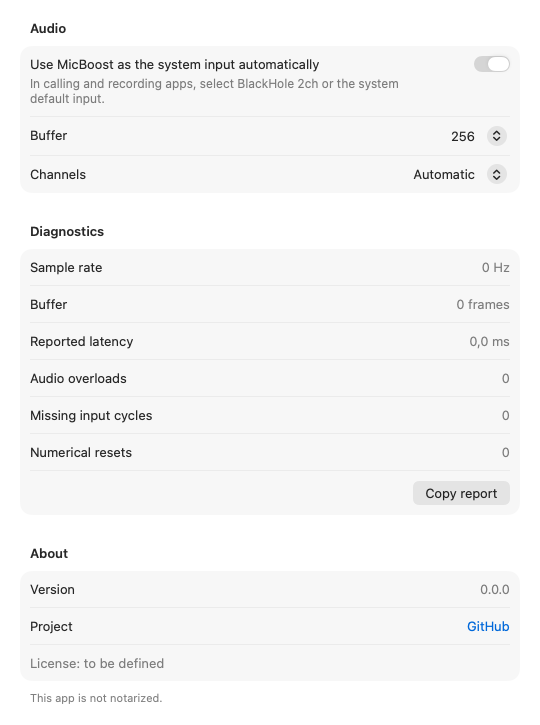
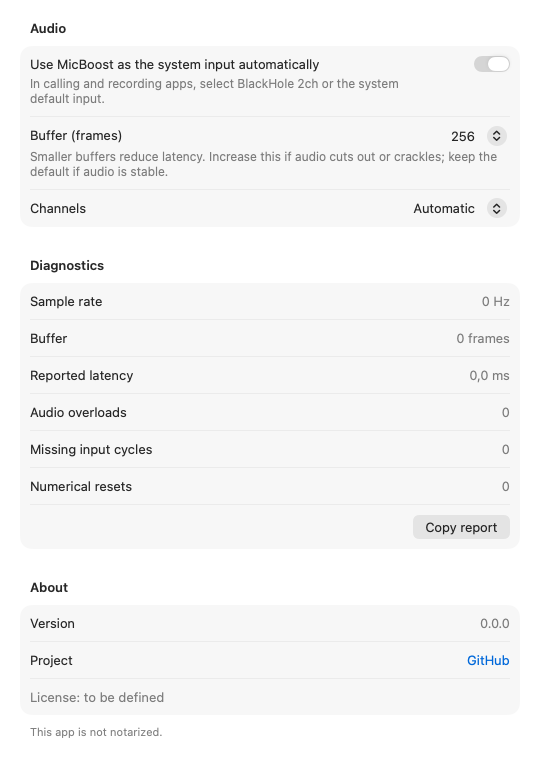
Clarify buffer units and explain latency tradeoffs

diff --git a/Sources/MicBoostUI/Views.swift b/Sources/MicBoostUI/Views.swift
@@ -262,20 +262,30 @@ import SwiftUI
                     let enabled = model.controls.manageDefaultInput
                     Task { await model.engine.setDefaultInputManagement(enabled) }
                 }
-                Picker(localized("Buffer"), selection: $model.controls.bufferFrames) {
-                    ForEach(
-                        Settings.allowedBufferFrames.filter { frames in
-                            guard let source = model.status?.source else { return true }
-                            return Double(frames) >= source.bufferRange.minimum
-                                && Double(frames) <= source.bufferRange.maximum
-                        }, id: \.self
-                    ) { Text("\($0)").tag($0) }
-                }.onChange(of: model.controls.bufferFrames) {
-                    let frames = model.controls.bufferFrames
-                    Task {
-                        await model.store.update { $0.bufferFrames = frames }
-                        model.retry()
+                VStack(alignment: .leading, spacing: 4) {
+                    Picker(localized("Buffer (frames)"), selection: $model.controls.bufferFrames) {
+                        ForEach(
+                            Settings.allowedBufferFrames.filter { frames in
+                                guard let source = model.status?.source else { return true }
+                                return Double(frames) >= source.bufferRange.minimum
+                                    && Double(frames) <= source.bufferRange.maximum
+                            }, id: \.self
+                        ) { Text("\($0)").tag($0) }
+                    }.onChange(of: model.controls.bufferFrames) {
+                        let frames = model.controls.bufferFrames
+                        Task {
+                            await model.store.update { $0.bufferFrames = frames }
+                            model.retry()
+                        }
                     }
+                    Text(
+                        localized(
+                            "Smaller buffers reduce latency. Increase this if audio cuts out or crackles; keep the default if audio is stable."
+                        )
+                    )
+                    .font(.callout)
+                    .foregroundStyle(.secondary)
+                    .fixedSize(horizontal: false, vertical: true)
                 }
                 Picker(localized("Channels"), selection: Binding(get: { channel }, set: setChannel)) {
                     Text(localized("Automatic")).tag(0)

diff --git a/docs/ui.md b/docs/ui.md
@@ -88,7 +88,7 @@ As seções seguem o estilo dos Ajustes do Sistema: cartões agrupados nativos,
 controles com tamanho padrão do sistema, switch nativo à direita com explicação secundária
 junto ao rótulo e linhas de diagnóstico/sobre com rótulo à esquerda e valor à direita.
 
-- **Áudio:** chave "Usar MicBoost como entrada do sistema automaticamente" (`manageDefaultInput`, ligada por padrão), com uma frase explicando que, desligada, cada app precisa selecionar o microfone "BlackHole 2ch" por conta própria; tamanho de buffer (64/128/256/512/1024, só os valores suportados) e modo de canais da fonte atual ([audio-engine.md](audio-engine.md#canais)).
+- **Áudio:** chave "Usar MicBoost como entrada do sistema automaticamente" (`manageDefaultInput`, ligada por padrão), com uma frase explicando que, desligada, cada app precisa selecionar o microfone "BlackHole 2ch" por conta própria; "Buffer (quadros)" (64/128/256/512/1024, só os valores suportados), com descrição abaixo explicando que valores menores reduzem o atraso e valores maiores podem evitar cortes ou estalos; manter o padrão se o áudio estiver estável e modo de canais da fonte atual ([audio-engine.md](audio-engine.md#canais)).
 - **Diagnóstico** (somente leitura, atualização a 1 Hz com a janela visível): taxa de amostragem, buffer, latência reportada, overloads, `input_missing`, `nonfinite_resets`. Botão "Copiar relatório" (texto para a área de transferência).
 - **Sobre:** versão, link do projeto, aviso de que o app não é notarizado e informação de licença.
 

diff --git a/README.md b/README.md
@@ -80,7 +80,7 @@ Available today:
   length with flat EQ and no limiting. The protected −1 dBFS output reaches about 89.1% of the bar. This visual decay does not delay the audio.
 - **Menu bar panel** with gain, meters, routing status, microphones and EQ, plus settings for
   buffer, channels, automatic system input switching and diagnostics, using native grouped
-  sections and switches.
+  sections and switches. Buffer sizes are labeled in frames, with guidance on latency and audio stability.
 - **Voice preset** for rumble reduction and gentle presence, plus a flat EQ reset.
 - **Processing switch** releases the microphone; quitting restores the previous system input
   when MicBoost still manages it.
